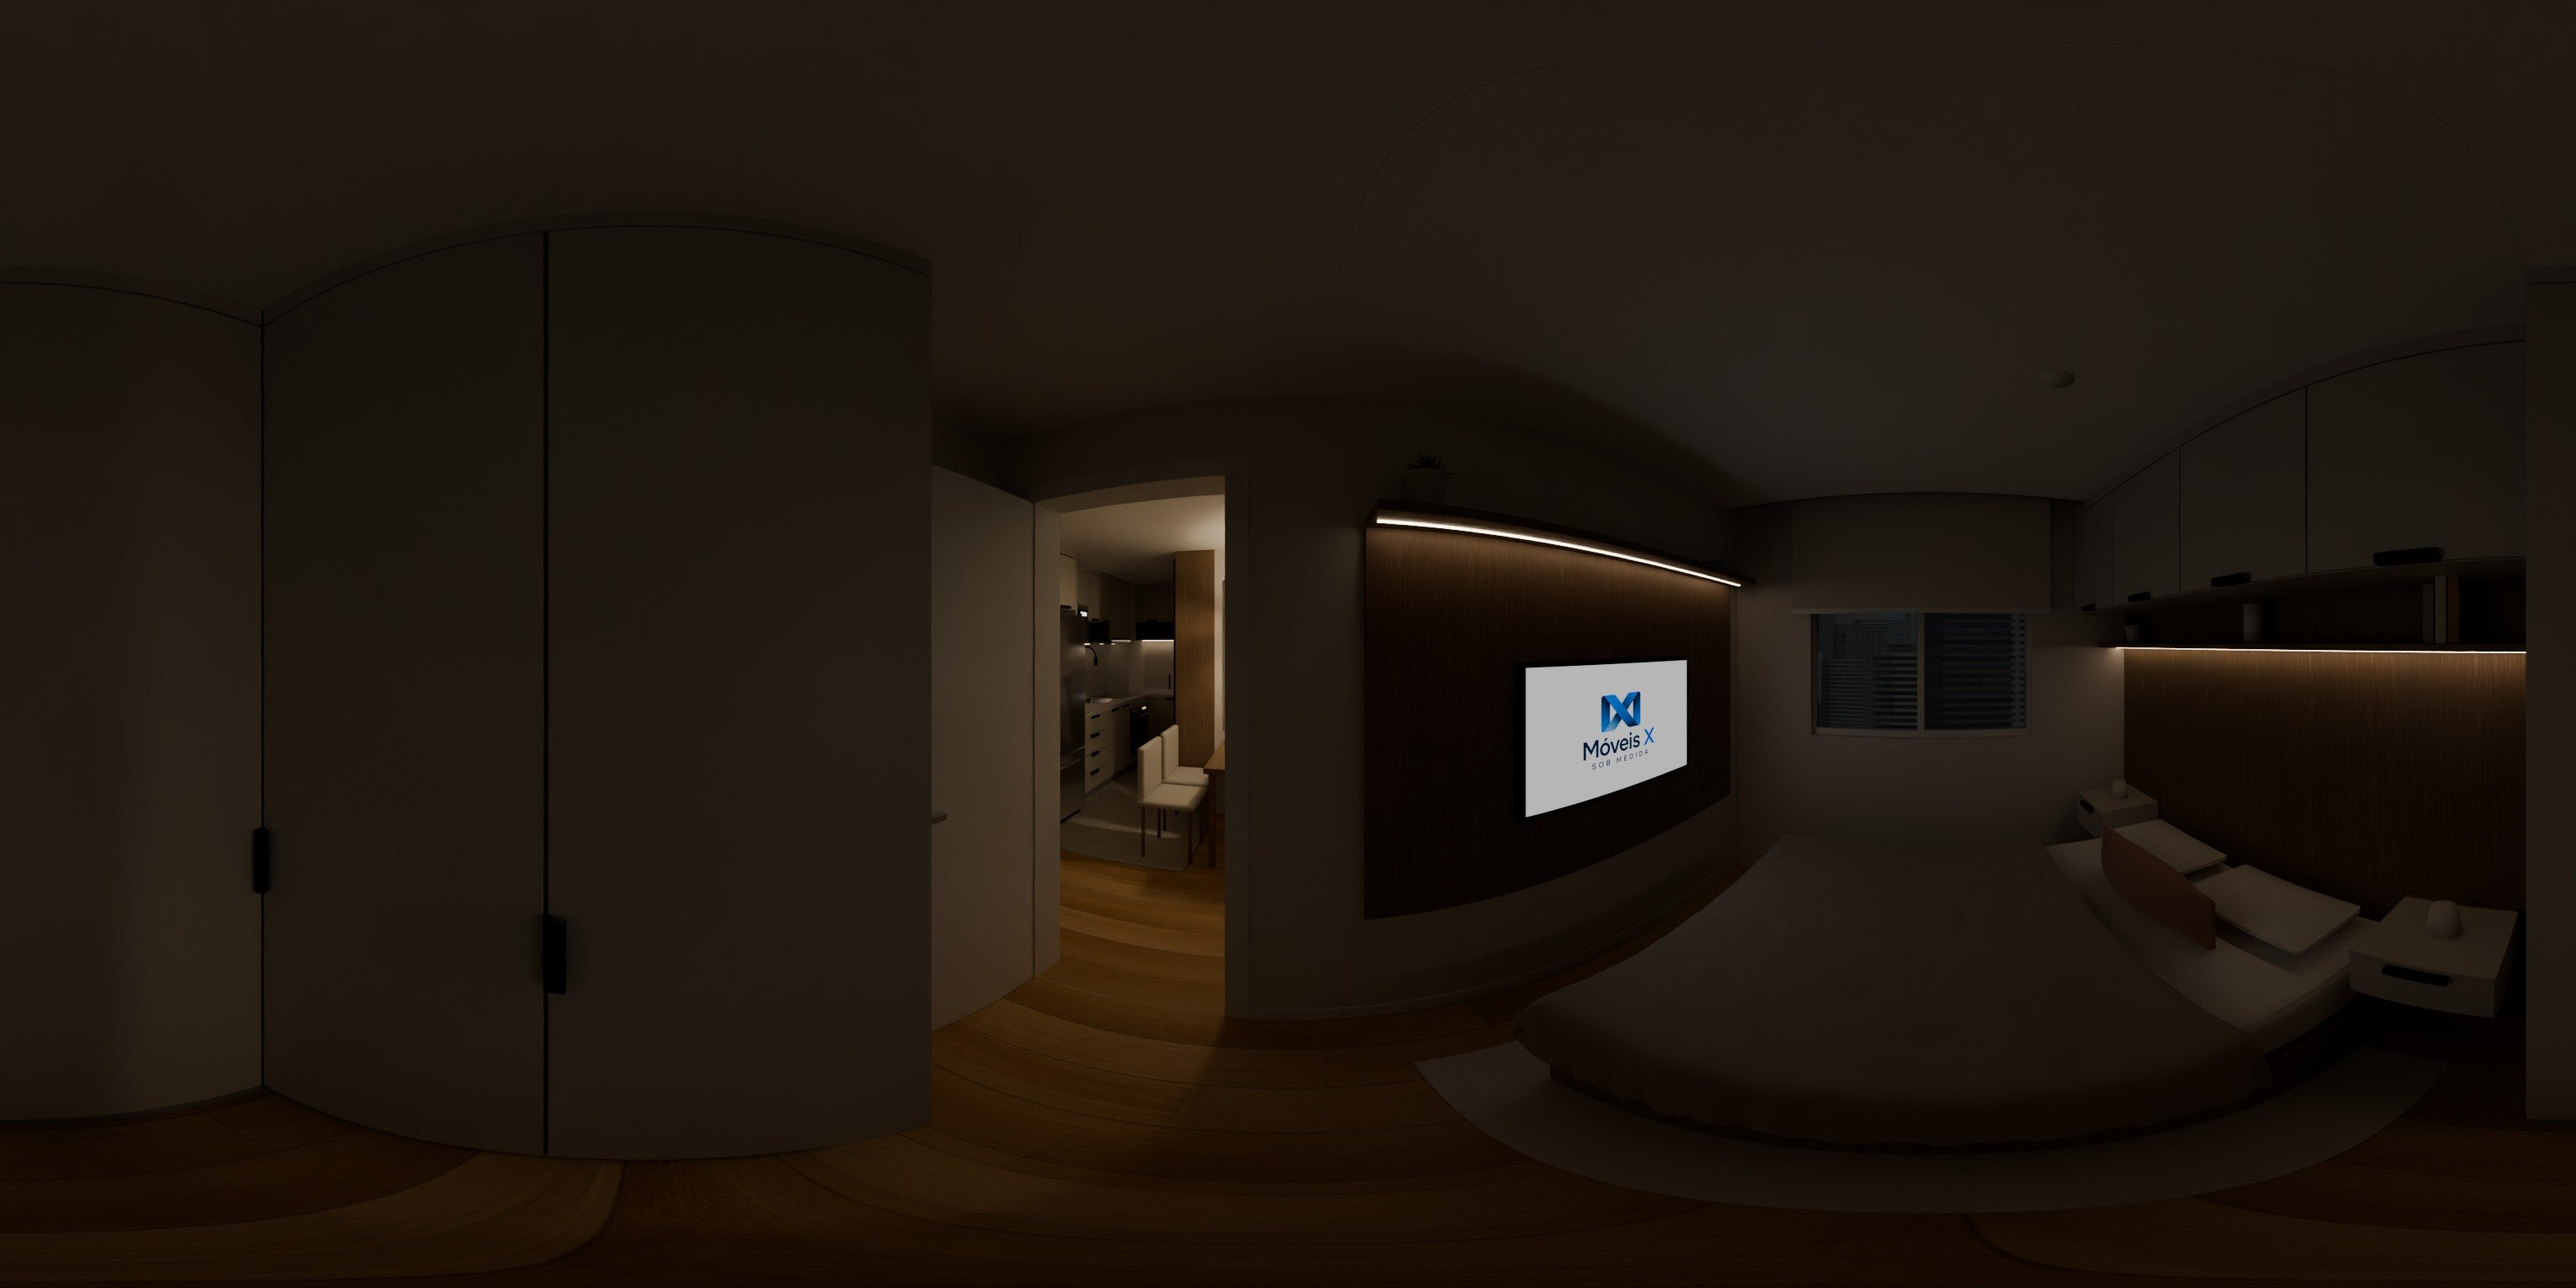
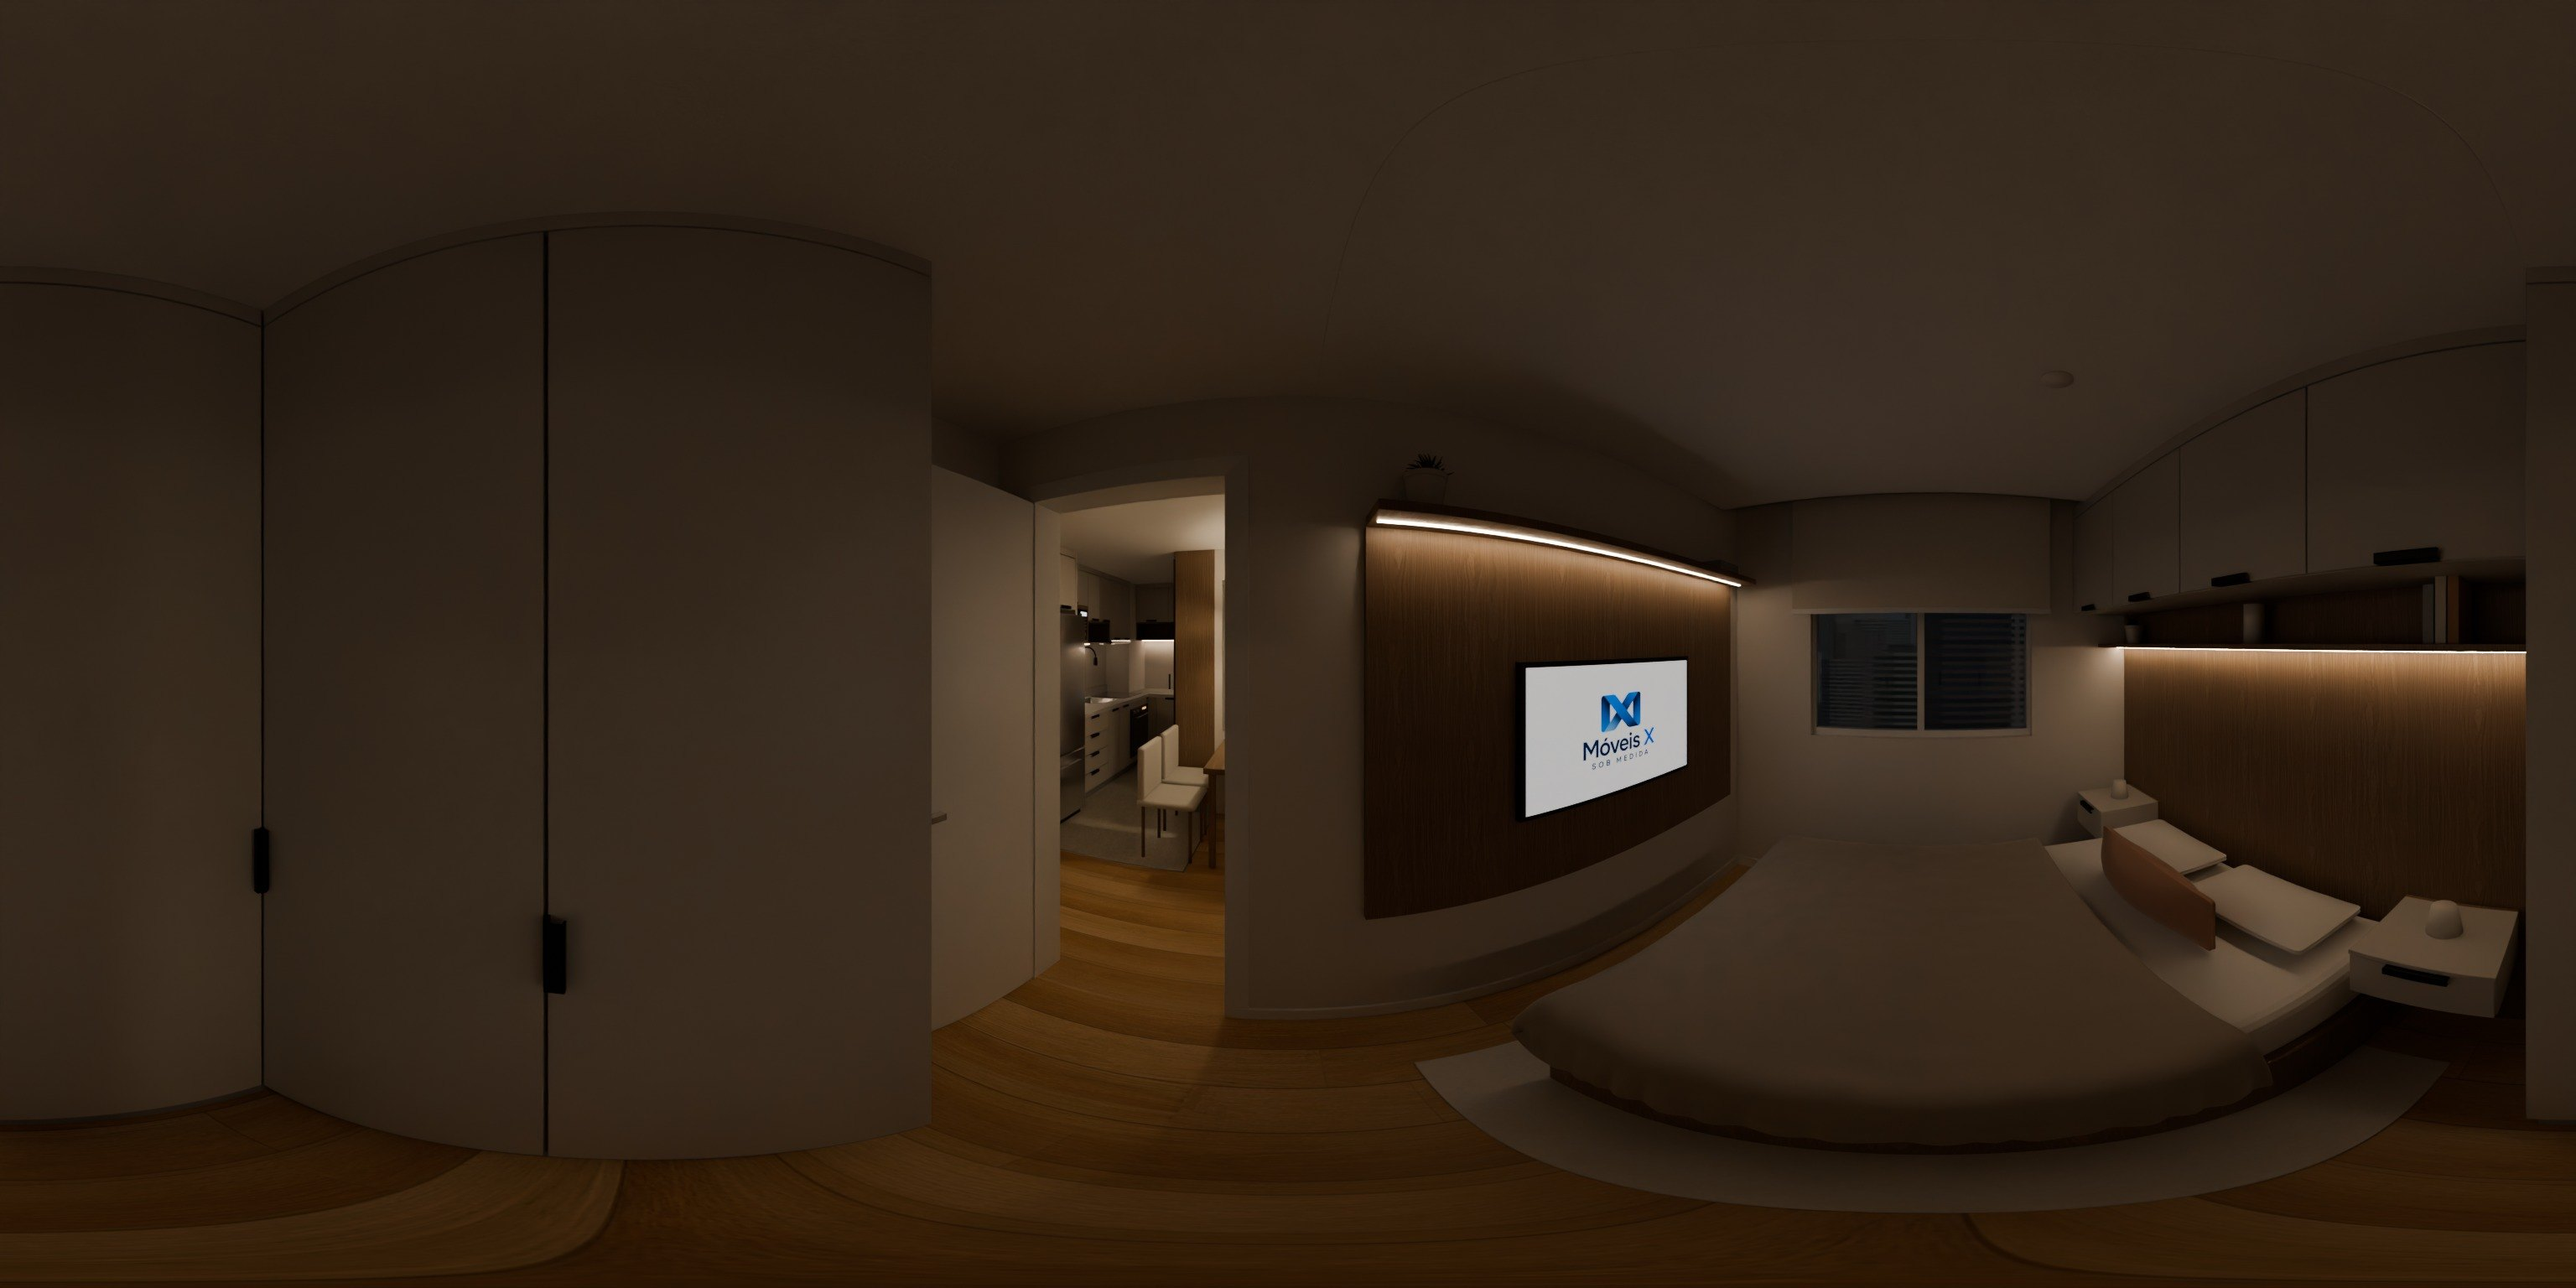
360: novo modo noite com LEDs fortes
Claude-Session: https://claude.ai/code/session_01TCwC85nDjNHJiKaGTNL9QG

diff --git a/360/index.html b/360/index.html
@@ -54,11 +54,11 @@ nav button:focus-visible{outline:2px solid var(--brand);outline-offset:2px}
 <script>
 // posição de cada foto 360 na planta (m) e portas para onde as setas apontam
 const ROOMS=[
- {name:"Sala",img:"sala.jpg?v=7",p:[3.55,-3.3],go:[["Cozinha",1,[4.1,-1.7],[5.0,-0.3]],["Dormitório 02",3,[4.74,-3.04]],["Dormitório 01",2,[2.42,-1.9]],["Banheiro",4,[2.6,-0.75]]]},
- {name:"Cozinha",img:"cozinha.jpg?v=7",p:[4.3,-1.05],go:[["Sala",0,[3.6,-3.0]],["Banheiro",4,[2.6,-0.75]]]},
- {name:"Dormitório 01",img:"dormitorio_01.jpg?v=7",p:[1.2,-2.4],go:[["Sala",0,[2.42,-1.9]]]},
- {name:"Dormitório 02",img:"dormitorio_02.jpg?v=7",p:[5.7,-3.1],go:[["Sala",0,[4.74,-3.04],[2.8,-2.4]]]},
- {name:"Banheiro",img:"banheiro.jpg?v=7",p:[1.75,-0.75],look:[0.45,-0.65],go:[["Cozinha",1,[2.6,-0.75],[3.6,-3.0]]]}];
+ {name:"Sala",img:"sala.jpg?v=8",p:[3.55,-3.3],go:[["Cozinha",1,[4.1,-1.7],[5.0,-0.3]],["Dormitório 02",3,[4.74,-3.04]],["Dormitório 01",2,[2.42,-1.9]],["Banheiro",4,[2.6,-0.75]]]},
+ {name:"Cozinha",img:"cozinha.jpg?v=8",p:[4.3,-1.05],go:[["Sala",0,[3.6,-3.0]],["Banheiro",4,[2.6,-0.75]]]},
+ {name:"Dormitório 01",img:"dormitorio_01.jpg?v=8",p:[1.2,-2.4],go:[["Sala",0,[2.42,-1.9]]]},
+ {name:"Dormitório 02",img:"dormitorio_02.jpg?v=8",p:[5.7,-3.1],go:[["Sala",0,[4.74,-3.04],[2.8,-2.4]]]},
+ {name:"Banheiro",img:"banheiro.jpg?v=8",p:[1.75,-0.75],look:[0.45,-0.65],go:[["Cozinha",1,[2.6,-0.75],[3.6,-3.0]]]}];
 const view=document.getElementById('view'),hint=document.getElementById('hint'),nav=document.getElementById('rooms');
 const renderer=new THREE.WebGLRenderer({antialias:true});renderer.setPixelRatio(Math.min(devicePixelRatio,2));
 view.prepend(renderer.domElement);renderer.outputEncoding=THREE.sRGBEncoding;

diff --git a/index.html b/index.html
@@ -398,7 +398,7 @@ html.m .v360 small{font-size:12px}
     <h1>Apartamento<br><em>Phelipe</em></h1>
     <div class="rule"></div>
     <p>NOW Residence · Carapicuíba · SP</p>
-    <a class="v360" href="360/?v=9"><i>360°</i><span>Entrar no apartamento<small>Visite cada ambiente por dentro</small></span></a>
+    <a class="v360" href="360/?v=10"><i>360°</i><span>Entrar no apartamento<small>Visite cada ambiente por dentro</small></span></a>
   </div>
   <div class="cv-meta"><div><b>Cliente</b>Phelipe</div><div><b>Projeto</b>Daniel · Móveis X</div><div><b>Data</b>Outubro 2026</div></div>
 </div></section><section class="page concept">
@@ -971,6 +971,6 @@ html.m .v360 small{font-size:12px}
 <path d="M240 210 C262 188 284 178 297 176" fill="none" stroke="#ffffff" stroke-width="0.6"/>
 </svg>
 <div class="c3-txt"><img src="img/ecf70b03e1.png" alt="Móveis X"><h2>Feito sob medida<br><em>para o seu jeito de viver.</em></h2><div class="rule"></div>
-<p>Projeto de marcenaria · Apartamento Phelipe · NOW Residence</p><a class="v360" href="360/?v=9"><i>360°</i><span>Ver o apartamento em 360°<small>Sala, cozinha, quartos e banheiro</small></span></a></div>
+<p>Projeto de marcenaria · Apartamento Phelipe · NOW Residence</p><a class="v360" href="360/?v=10"><i>360°</i><span>Ver o apartamento em 360°<small>Sala, cozinha, quartos e banheiro</small></span></a></div>
 <div class="c3-script">Do projeto<br>à realidade</div></section>
 </body></html>
